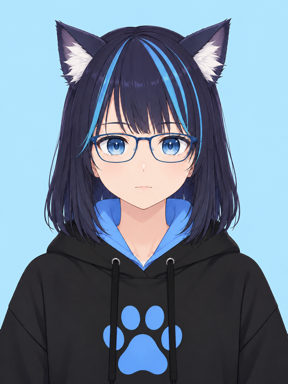
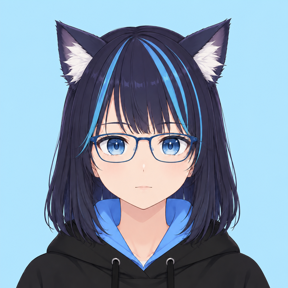
Finalize profile images and site metadata

diff --git a/app/pages/index.vue b/app/pages/index.vue
@@ -15,7 +15,7 @@ const siteUrl = "https://mayu2664.jp"
 const pageTitle = "川島 雅結（KAWASHIMA Mayu）｜情報セキュリティ・情報法"
 const pageDescription =
     "情報セキュリティを技術と法制度の両面から捉え、安全で信頼できる情報通信基盤について研究する川島雅結のプロフィールサイトです。"
-const ogImage = `${siteUrl}/images/profile-square.png`
+const ogImage = `${siteUrl}/images/profile.png`
 
 useSeoMeta({
     title: pageTitle,
@@ -28,6 +28,9 @@ useSeoMeta({
     ogLocale: "ja_JP",
     ogImage,
     ogImageAlt: "川島雅結のプロフィール画像",
+    ogImageType: "image/png",
+    ogImageWidth: 1086,
+    ogImageHeight: 1085,
     twitterCard: "summary",
     twitterTitle: pageTitle,
     twitterDescription: pageDescription,

diff --git a/nuxt.config.ts b/nuxt.config.ts
@@ -10,6 +10,7 @@ export default defineNuxtConfig({
   modules: ["@nuxt/ui"],
   app: {
     head: {
+      htmlAttrs: { lang: "ja" },
       title: "mayu2664.jp - KAWASHIMA Mayu",
       meta: [
         { charset: "utf-8" },
@@ -19,7 +20,10 @@ export default defineNuxtConfig({
           content: "川島雅結（KAWASHIMA Mayu）の研究者・技術者プロフィール。情報学、情報法、サイバーセキュリティ法制を研究しています。",
         },
       ],
-      link: [{ rel: "icon", type: "image/x-icon", href: "/favicon.ico" }],
+      link: [
+        { rel: "icon", type: "image/svg+xml", href: "/favicon.svg" },
+        { rel: "apple-touch-icon", sizes: "180x180", href: "/apple-touch-icon.png" },
+      ],
     },
   },
 });

diff --git a/app/components/profile/ProfileHero.vue b/app/components/profile/ProfileHero.vue
@@ -11,7 +11,7 @@
             height="144"
             fetchpriority="high"
             decoding="async"
-            class="size-full object-cover object-top [image-rendering:auto]"
+            class="size-full object-cover [image-rendering:auto]"
           >
         </div>
 
